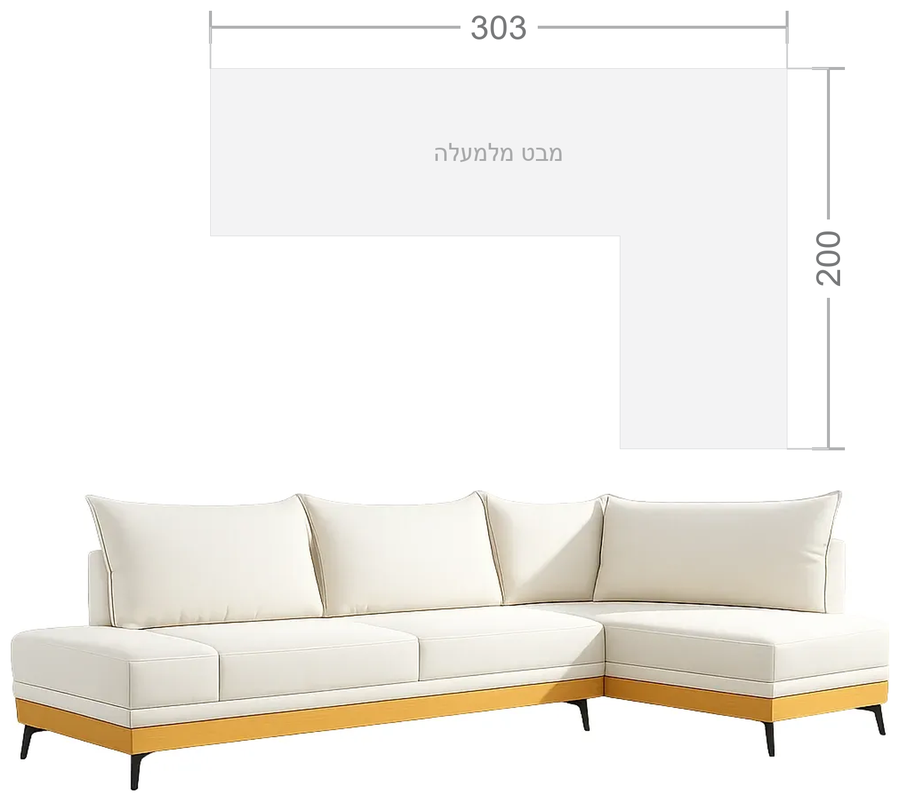
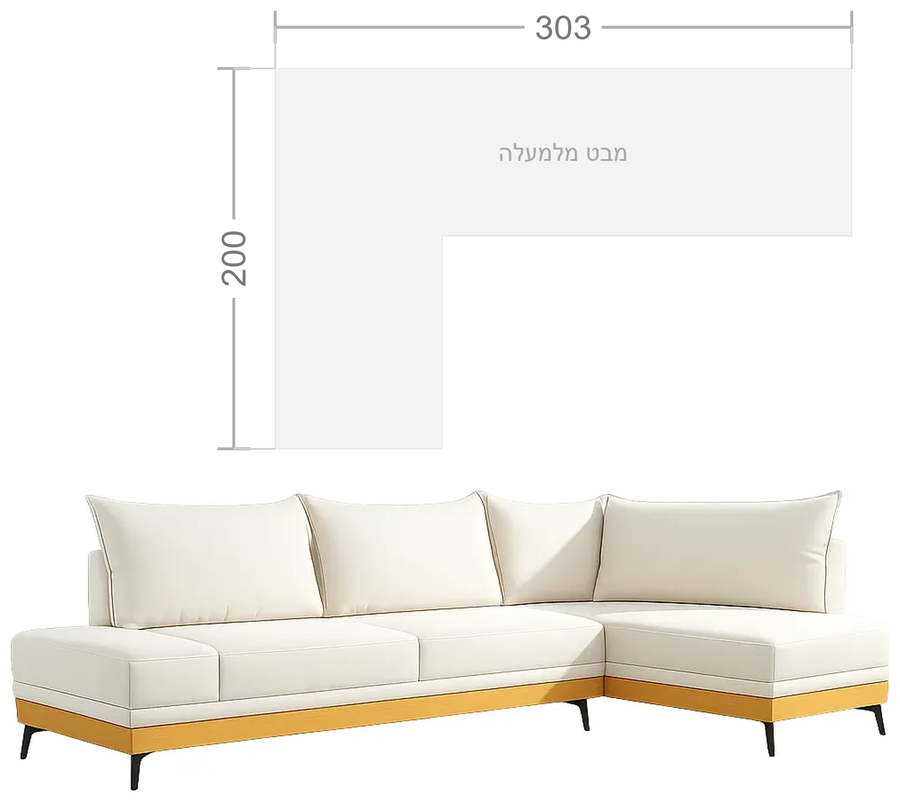
chaise side follows the photograph on every page

diff --git a/index.html b/index.html
@@ -160,8 +160,14 @@ body{
     <div class="opt">
       <h3>צד שזלונג <i>*</i></h3>
       <div class="picks">
-        <div class="pick on">שזלונג ימני<small>בעמידה מול הספה</small></div>
-        <div class="pick">שזלונג שמאלי<small>בעמידה מול הספה</small></div>
+        <!-- SHOWS THE SOFA IN THE PHOTOGRAPH, not the first option in the
+             list. Doron caught this one: ימני was pre-selected above a
+             picture whose chaise is on the left. The page defines the two
+             as בעמידה מול הספה, and a straight-on product shot is taken from
+             that spot, so the side in the image is the side in the label.
+             מג'יק's chaise is on the left of its photograph. -->
+        <div class="pick">שזלונג ימני<small>בעמידה מול הספה</small></div>
+        <div class="pick on">שזלונג שמאלי<small>בעמידה מול הספה</small></div>
       </div>
     </div>
 

diff --git a/all/p03.html b/all/p03.html
@@ -158,13 +158,7 @@ body{
     <h1 class="ptitle">סלון פינתי בעל מיטה זוגית נשלפת וארגז מצעים</h1>
     <p class="psub">סלון פינתי בעל מיטה זוגית נשלפת וארגז מצעים</p>
 
-    <div class="opt">
-      <h3>צד שזלונג <i>*</i></h3>
-      <div class="picks">
-        <div class="pick on">שזלונג ימני<small>בעמידה מול הספה</small></div>
-        <div class="pick">שזלונג שמאלי<small>בעמידה מול הספה</small></div>
-      </div>
-    </div>
+    <div class="opt"><h3>צד שזלונג <i>*</i></h3><div class="picks"><div class="pick on">שזלונג ימני<small>בעמידה מול הספה</small></div><div class="pick">שזלונג שמאלי<small>בעמידה מול הספה</small></div></div></div>
 
     <div class="cartrow">
       <div class="qty">−&nbsp;<span style="color:#000">1</span>&nbsp;+</div>

diff --git a/all/p19.html b/all/p19.html
@@ -158,13 +158,7 @@ body{
     <h1 class="ptitle">סלון פינתי בעל מיטה זוגית נשלפת וארגז מצעים</h1>
     <p class="psub">סלון פינתי בעל מיטה זוגית נשלפת וארגז מצעים</p>
 
-    <div class="opt">
-      <h3>צד שזלונג <i>*</i></h3>
-      <div class="picks">
-        <div class="pick on">שזלונג ימני<small>בעמידה מול הספה</small></div>
-        <div class="pick">שזלונג שמאלי<small>בעמידה מול הספה</small></div>
-      </div>
-    </div>
+    <div class="opt"><h3>צד שזלונג <i>*</i></h3><div class="picks"><div class="pick on">שזלונג ימני<small>בעמידה מול הספה</small></div><div class="pick">שזלונג שמאלי<small>בעמידה מול הספה</small></div></div></div>
 
     <div class="cartrow">
       <div class="qty">−&nbsp;<span style="color:#000">1</span>&nbsp;+</div>

diff --git a/all/p05.html b/all/p05.html
@@ -158,13 +158,7 @@ body{
     <h1 class="ptitle">סלון פינתי בעל מיטה זוגית נשלפת וארגז מצעים</h1>
     <p class="psub">סלון פינתי בעל מיטה זוגית נשלפת וארגז מצעים</p>
 
-    <div class="opt">
-      <h3>צד שזלונג <i>*</i></h3>
-      <div class="picks">
-        <div class="pick on">שזלונג ימני<small>בעמידה מול הספה</small></div>
-        <div class="pick">שזלונג שמאלי<small>בעמידה מול הספה</small></div>
-      </div>
-    </div>
+    <div class="opt"><h3>צד שזלונג <i>*</i></h3><div class="picks"><div class="pick">שזלונג ימני<small>בעמידה מול הספה</small></div><div class="pick">שזלונג שמאלי<small>בעמידה מול הספה</small></div></div></div>
 
     <div class="cartrow">
       <div class="qty">−&nbsp;<span style="color:#000">1</span>&nbsp;+</div>

diff --git a/all/p06.html b/all/p06.html
@@ -158,13 +158,7 @@ body{
     <h1 class="ptitle">מערכת ישיבה פינתית מפוארת</h1>
     <p class="psub">מערכת ישיבה פינתית מפוארת</p>
 
-    <div class="opt">
-      <h3>צד שזלונג <i>*</i></h3>
-      <div class="picks">
-        <div class="pick on">שזלונג ימני<small>בעמידה מול הספה</small></div>
-        <div class="pick">שזלונג שמאלי<small>בעמידה מול הספה</small></div>
-      </div>
-    </div>
+    <div class="opt"><h3>צד שזלונג <i>*</i></h3><div class="picks"><div class="pick on">שזלונג ימני<small>בעמידה מול הספה</small></div><div class="pick">שזלונג שמאלי<small>בעמידה מול הספה</small></div></div></div>
 
     <div class="cartrow">
       <div class="qty">−&nbsp;<span style="color:#000">1</span>&nbsp;+</div>

diff --git a/all/p15.html b/all/p15.html
@@ -158,13 +158,7 @@ body{
     <h1 class="ptitle">סנטוריני</h1>
     <p class="psub">סלון פינתי ענק ומפואר דגם סנטוריני</p>
 
-    <div class="opt">
-      <h3>צד שזלונג <i>*</i></h3>
-      <div class="picks">
-        <div class="pick on">שזלונג ימני<small>בעמידה מול הספה</small></div>
-        <div class="pick">שזלונג שמאלי<small>בעמידה מול הספה</small></div>
-      </div>
-    </div>
+    <div class="opt"><h3>צד שזלונג <i>*</i></h3><div class="picks"><div class="pick">שזלונג ימני<small>בעמידה מול הספה</small></div><div class="pick on">שזלונג שמאלי<small>בעמידה מול הספה</small></div></div></div>
 
     <div class="cartrow">
       <div class="qty">−&nbsp;<span style="color:#000">1</span>&nbsp;+</div>

diff --git a/all/p12.html b/all/p12.html
@@ -158,13 +158,7 @@ body{
     <h1 class="ptitle">אספניול</h1>
     <p class="psub">סלון פינתי מפואר דגם אספניול</p>
 
-    <div class="opt">
-      <h3>צד שזלונג <i>*</i></h3>
-      <div class="picks">
-        <div class="pick on">שזלונג ימני<small>בעמידה מול הספה</small></div>
-        <div class="pick">שזלונג שמאלי<small>בעמידה מול הספה</small></div>
-      </div>
-    </div>
+    <div class="opt"><h3>צד שזלונג <i>*</i></h3><div class="picks"><div class="pick">שזלונג ימני<small>בעמידה מול הספה</small></div><div class="pick on">שזלונג שמאלי<small>בעמידה מול הספה</small></div></div></div>
 
     <div class="cartrow">
       <div class="qty">−&nbsp;<span style="color:#000">1</span>&nbsp;+</div>

diff --git a/all/p18.html b/all/p18.html
@@ -158,13 +158,7 @@ body{
     <h1 class="ptitle">אמיסימה</h1>
     <p class="psub">סלון פינתי מעוצב דגם אמיסימה</p>
 
-    <div class="opt">
-      <h3>צד שזלונג <i>*</i></h3>
-      <div class="picks">
-        <div class="pick on">שזלונג ימני<small>בעמידה מול הספה</small></div>
-        <div class="pick">שזלונג שמאלי<small>בעמידה מול הספה</small></div>
-      </div>
-    </div>
+    <div class="opt"><h3>צד שזלונג <i>*</i></h3><div class="picks"><div class="pick">שזלונג ימני<small>בעמידה מול הספה</small></div><div class="pick on">שזלונג שמאלי<small>בעמידה מול הספה</small></div></div></div>
 
     <div class="cartrow">
       <div class="qty">−&nbsp;<span style="color:#000">1</span>&nbsp;+</div>

diff --git a/all/p16.html b/all/p16.html
@@ -158,13 +158,7 @@ body{
     <h1 class="ptitle">נאפולי</h1>
     <p class="psub">סלון פינתי יוקרתי דגם נאפולי</p>
 
-    <div class="opt">
-      <h3>צד שזלונג <i>*</i></h3>
-      <div class="picks">
-        <div class="pick on">שזלונג ימני<small>בעמידה מול הספה</small></div>
-        <div class="pick">שזלונג שמאלי<small>בעמידה מול הספה</small></div>
-      </div>
-    </div>
+    <div class="opt"><h3>צד שזלונג <i>*</i></h3><div class="picks"><div class="pick on">שזלונג ימני<small>בעמידה מול הספה</small></div><div class="pick">שזלונג שמאלי<small>בעמידה מול הספה</small></div></div></div>
 
     <div class="cartrow">
       <div class="qty">−&nbsp;<span style="color:#000">1</span>&nbsp;+</div>

diff --git a/all/p09.html b/all/p09.html
@@ -158,13 +158,7 @@ body{
     <h1 class="ptitle">לולינה</h1>
     <p class="psub">סלון פינתי מעוצב דגם לולינה</p>
 
-    <div class="opt">
-      <h3>צד שזלונג <i>*</i></h3>
-      <div class="picks">
-        <div class="pick on">שזלונג ימני<small>בעמידה מול הספה</small></div>
-        <div class="pick">שזלונג שמאלי<small>בעמידה מול הספה</small></div>
-      </div>
-    </div>
+    <div class="opt"><h3>צד שזלונג <i>*</i></h3><div class="picks"><div class="pick">שזלונג ימני<small>בעמידה מול הספה</small></div><div class="pick on">שזלונג שמאלי<small>בעמידה מול הספה</small></div></div></div>
 
     <div class="cartrow">
       <div class="qty">−&nbsp;<span style="color:#000">1</span>&nbsp;+</div>

diff --git a/all/p02.html b/all/p02.html
@@ -158,13 +158,7 @@ body{
     <h1 class="ptitle">רוז'אן</h1>
     <p class="psub">סלון פינתי מעוצב דגם רוז'אן</p>
 
-    <div class="opt">
-      <h3>צד שזלונג <i>*</i></h3>
-      <div class="picks">
-        <div class="pick on">שזלונג ימני<small>בעמידה מול הספה</small></div>
-        <div class="pick">שזלונג שמאלי<small>בעמידה מול הספה</small></div>
-      </div>
-    </div>
+    <div class="opt"><h3>צד שזלונג <i>*</i></h3><div class="picks"><div class="pick">שזלונג ימני<small>בעמידה מול הספה</small></div><div class="pick on">שזלונג שמאלי<small>בעמידה מול הספה</small></div></div></div>
 
     <div class="cartrow">
       <div class="qty">−&nbsp;<span style="color:#000">1</span>&nbsp;+</div>

diff --git a/all/p04.html b/all/p04.html
@@ -158,13 +158,7 @@ body{
     <h1 class="ptitle">בליני</h1>
     <p class="psub">ספה פינתית מפוארת דגם בליני</p>
 
-    <div class="opt">
-      <h3>צד שזלונג <i>*</i></h3>
-      <div class="picks">
-        <div class="pick on">שזלונג ימני<small>בעמידה מול הספה</small></div>
-        <div class="pick">שזלונג שמאלי<small>בעמידה מול הספה</small></div>
-      </div>
-    </div>
+    <div class="opt"><h3>צד שזלונג <i>*</i></h3><div class="picks"><div class="pick">שזלונג ימני<small>בעמידה מול הספה</small></div><div class="pick on">שזלונג שמאלי<small>בעמידה מול הספה</small></div></div></div>
 
     <div class="cartrow">
       <div class="qty">−&nbsp;<span style="color:#000">1</span>&nbsp;+</div>
